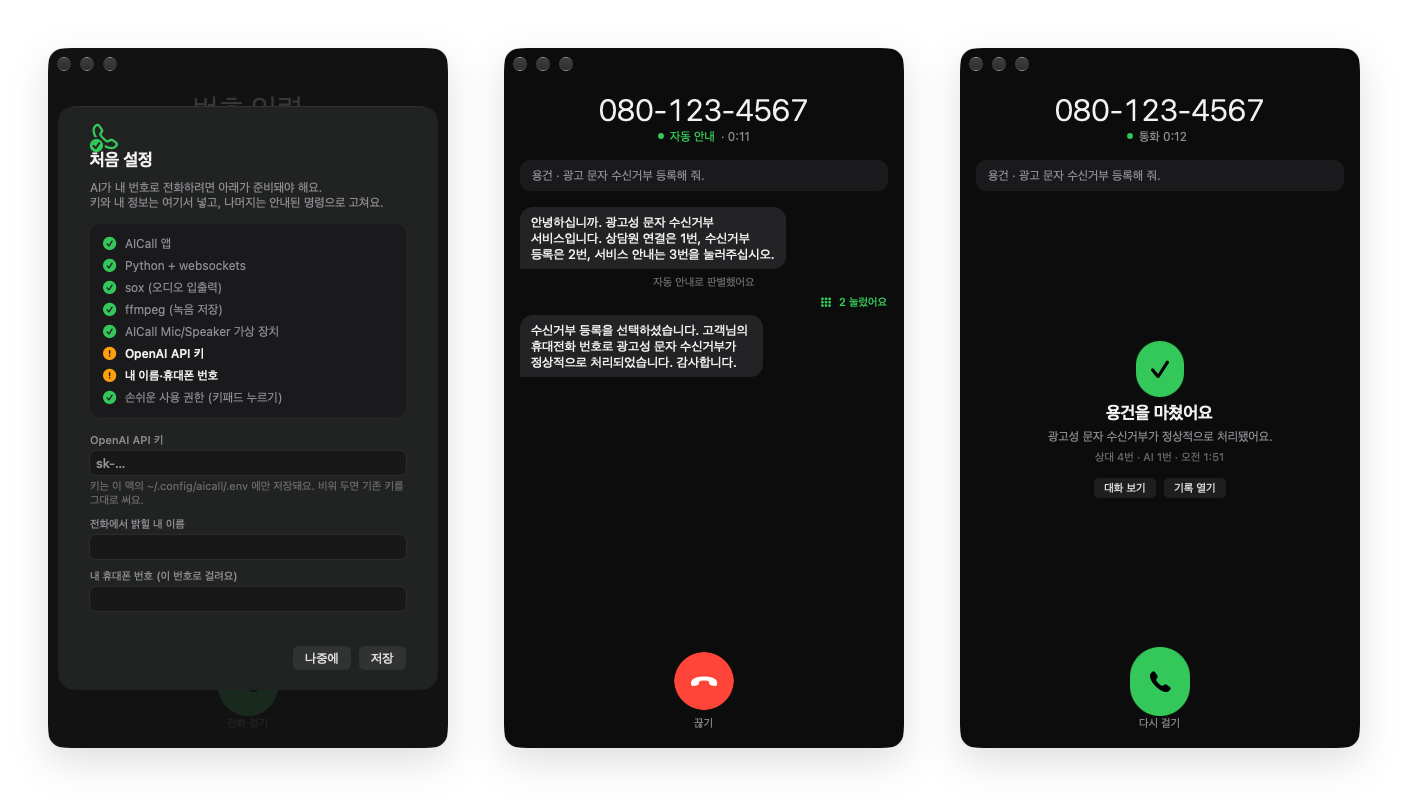
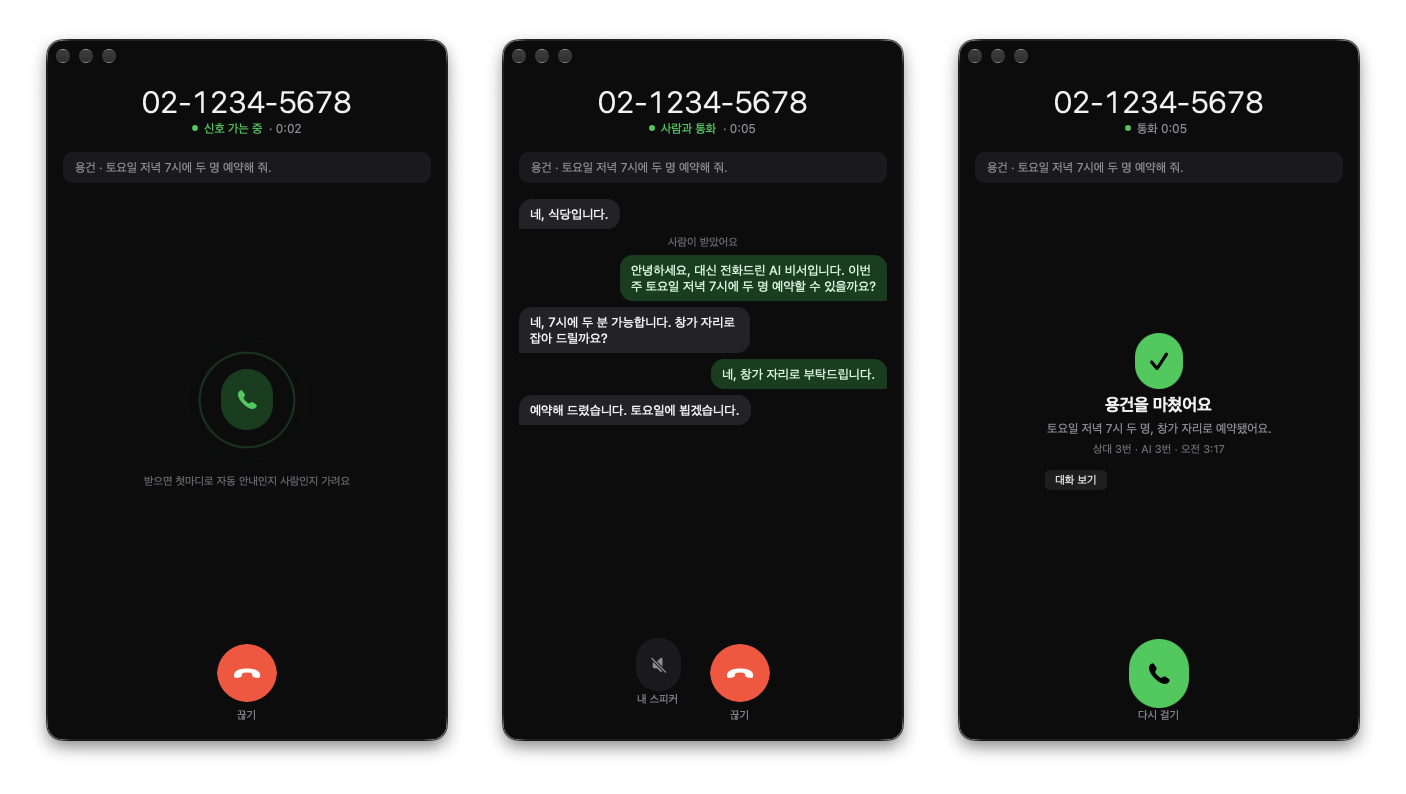
App: recent calls, Enter to call, done alert; new screenshots
- Idle screen lists recent calls; clicking one refills number and task.
- Enter in the number field moves to the task, Enter in the task
  places the call (Shift+Enter for a new line), Tab goes back.
- When a call ends while the app is in the background it bounces the
  Dock icon and plays a sound.
- Setup sheet: a button opens the permission pane directly.
- Screenshots now show a call with a person.

diff --git a/app/AICall.swift b/app/AICall.swift
@@ -95,6 +95,24 @@ enum Book {
 }
 
 // 디자인 토큰. 강조색은 통화 약속 색(걸기 초록·끊기 빨강)과 넘겨받기 주황뿐. 글꼴은 시스템 한 벌, 숫자만 고정폭 숫자
+// 최근 통화: 기록 파일(calls/*.md)의 번호·용건·결과. 같은 번호·용건은 한 번만, 화면 점검용 재생은 뺀다
+struct Past { let number: String; let task: String; let outcome: String }
+func recentCalls(_ n: Int) -> [Past] {
+    let dir = support.appendingPathComponent("calls")
+    let files = ((try? FileManager.default.contentsOfDirectory(atPath: dir.path)) ?? []).filter { $0.hasSuffix(".md") }.sorted(by: >)
+    var out: [Past] = []
+    for f in files.prefix(40) where out.count < n {
+        let num = String(f.dropLast(3).split(separator: "_").last ?? "")
+        guard num.count >= 3, let s = try? String(contentsOf: dir.appendingPathComponent(f), encoding: .utf8), !s.contains(" 재생: ") else { continue }
+        let parts = s.components(separatedBy: "\n\n")
+        guard parts.count > 1, parts[1].hasPrefix("용건: ") else { continue }
+        let task = String(parts[1].dropFirst(4))
+        let end = s.split(separator: "\n").last { $0.hasPrefix("결과: ") }.map { String($0.dropFirst(4).prefix { $0 != " " }) } ?? ""
+        if !out.contains(where: { $0.number == num && $0.task == task }) { out.append(Past(number: num, task: task, outcome: end)) }
+    }
+    return out
+}
+
 enum Pal {
     static func hex(_ v: UInt32) -> NSColor { NSColor(srgbRed: CGFloat(v >> 16 & 255) / 255, green: CGFloat(v >> 8 & 255) / 255, blue: CGFloat(v & 255) / 255, alpha: 1) }
     static let bg = hex(0x0C0C0D)        // 바탕 (통화 화면)
@@ -223,6 +241,8 @@ final class Controller: NSObject, NSApplicationDelegate, NSWindowDelegate, NSTex
     let opts = NSStackView()
     // 가운데: 단계마다 하나만 보인다
     let hint = label("", 12, Pal.faint, wrap: true)
+    let recent = NSStackView()                      // 대기 화면: 최근 통화를 누르면 번호·용건이 다시 채워진다
+    var past: [Past] = []
     let ring = Ring()
     let ringNote = label("받으면 첫마디로 자동 안내인지 사람인지 가려요", 11, Pal.faint)
     let banner = NSView()
@@ -385,10 +405,12 @@ final class Controller: NSObject, NSApplicationDelegate, NSWindowDelegate, NSTex
         // 가운데 칸: 대기 안내 / 고리 / 말풍선 / 결과 중 하나
         let middle = NSView()
         let ringBox = NSStackView(views: [ring, ringNote]); ringBox.orientation = .vertical; ringBox.spacing = 14
-        for x in [hint, ringBox, chatScroll, result] as [NSView] { x.translatesAutoresizingMaskIntoConstraints = false; middle.addSubview(x) }
+        recent.orientation = .vertical; recent.alignment = .leading; recent.spacing = 5
+        let idleBox = NSStackView(views: [recent, hint]); idleBox.orientation = .vertical; idleBox.spacing = 22
+        for x in [idleBox, ringBox, chatScroll, result] as [NSView] { x.translatesAutoresizingMaskIntoConstraints = false; middle.addSubview(x) }
         NSLayoutConstraint.activate([
-            hint.centerXAnchor.constraint(equalTo: middle.centerXAnchor), hint.centerYAnchor.constraint(equalTo: middle.centerYAnchor),
-            hint.widthAnchor.constraint(lessThanOrEqualTo: middle.widthAnchor, constant: -24),
+            idleBox.centerXAnchor.constraint(equalTo: middle.centerXAnchor), idleBox.centerYAnchor.constraint(equalTo: middle.centerYAnchor),
+            idleBox.widthAnchor.constraint(equalTo: middle.widthAnchor, constant: -24), recent.widthAnchor.constraint(equalTo: idleBox.widthAnchor),
             ringBox.centerXAnchor.constraint(equalTo: middle.centerXAnchor), ringBox.centerYAnchor.constraint(equalTo: middle.centerYAnchor),
             chatScroll.leadingAnchor.constraint(equalTo: middle.leadingAnchor), chatScroll.trailingAnchor.constraint(equalTo: middle.trailingAnchor),
             chatScroll.topAnchor.constraint(equalTo: middle.topAnchor), chatScroll.bottomAnchor.constraint(equalTo: middle.bottomAnchor),
@@ -474,6 +496,7 @@ final class Controller: NSObject, NSApplicationDelegate, NSWindowDelegate, NSTex
         handoff.isHidden = practice
         if p != .talking { banner.isHidden = true }
         hint.isHidden = p != .idle
+        if p == .idle && !practice { loadRecent() } else { recent.isHidden = true }
         ringBox.isHidden = p != .dialing
         if p == .dialing { ring.start() } else { ring.stop() }
         chatScroll.isHidden = !(p == .talking || (p == .done && showingChat))
@@ -506,7 +529,7 @@ final class Controller: NSObject, NSApplicationDelegate, NSWindowDelegate, NSTex
         let ready = (practice || named) && !task.string.trimmingCharacters(in: .whitespaces).isEmpty
         taskHint.isHidden = !task.string.isEmpty
         callKey.alphaValue = ready ? 1 : 0.35
-        hint.stringValue = ready ? "엔터를 누르면 \(practice ? "시작해요" : "걸어요")."
+        hint.stringValue = ready ? "엔터를 누르면 \(practice ? "시작해요" : "걸어요"). 줄바꿈은 Shift+엔터."
             : (practice ? "시작하면 먼저 말을 걸어 주세요. 내가 상대 역할이에요." : "자동 안내면 AI가 번호를 누르고, 사람이 받으면 비서라고 밝힌 뒤 대화해요.")
         if !practice {
             if nameMode { setStatus(!Book.allowed ? "연락처 권한이 없어요 — 설정 > 연락처" : hits.isEmpty ? "연락처에서 못 찾았어요" : "후보를 골라 주세요", Book.allowed ? nil : Pal.orange) }
@@ -528,6 +551,49 @@ final class Controller: NSObject, NSApplicationDelegate, NSWindowDelegate, NSTex
         }
         updateReady()
     }
+    // 엔터: 번호 칸에서는 용건으로 넘어가고(용건이 있으면 건다), 용건 칸에서는 건다. Shift+엔터는 줄바꿈
+    func control(_ c: NSControl, textView: NSTextView, doCommandBy s: Selector) -> Bool {
+        guard c === number, s == #selector(NSResponder.insertNewline(_:)) else { return false }
+        if nameMode {
+            guard let h = Book.choose(hits) else { updateReady(); light(Pal.orange); return true }
+            pick(h)
+        }
+        if task.string.trimmingCharacters(in: .whitespacesAndNewlines).isEmpty { win.makeFirstResponder(task) } else { toggleCall() }
+        return true
+    }
+    func textView(_ t: NSTextView, doCommandBy s: Selector) -> Bool {
+        if s == #selector(NSResponder.insertNewline(_:)) {
+            if NSApp.currentEvent?.modifierFlags.contains(.shift) == true { return false }
+            toggleCall(); return true
+        }
+        if s == #selector(NSResponder.insertTab(_:)) { win.makeFirstResponder(number); return true }
+        return false
+    }
+
+    func loadRecent() {
+        past = recentCalls(4)
+        var rows: [NSView] = past.isEmpty ? [] : [label("최근 통화", 11, Pal.faint, .medium)]
+        let dot: [String: NSColor] = ["success": Pal.green, "needs_user": Pal.orange, "failed": Pal.red]
+        for (i, p) in past.enumerated() {
+            let b = NSButton(title: "", target: self, action: #selector(pickPast(_:))); b.tag = i; b.isBordered = false; b.alignment = .left
+            let who = (Book.allowed ? Book.who(p.number)?.name : nil) ?? formatPhone(p.number)
+            let t = NSMutableAttributedString(string: "●  ", attributes: [.font: NSFont.systemFont(ofSize: 7), .foregroundColor: dot[p.outcome] ?? Pal.faint, .baselineOffset: 2])
+            t.append(NSAttributedString(string: who + "  ", attributes: [.font: NSFont.monospacedDigitSystemFont(ofSize: 12, weight: .medium), .foregroundColor: Pal.text]))
+            t.append(NSAttributedString(string: p.task.replacingOccurrences(of: "\n", with: " "), attributes: [.font: NSFont.systemFont(ofSize: 12), .foregroundColor: Pal.sub]))
+            b.attributedTitle = t; b.lineBreakMode = .byTruncatingTail
+            b.setContentCompressionResistancePriority(.defaultLow, for: .horizontal)
+            rows.append(b)
+        }
+        recent.setViews(rows, in: .top); recent.isHidden = past.isEmpty
+        for b in rows.dropFirst() { b.widthAnchor.constraint(equalTo: recent.widthAnchor).isActive = true }
+    }
+    @objc func pickPast(_ b: NSButton) {
+        let p = past[b.tag]
+        number.stringValue = formatPhone(p.number); showHits([])
+        callee = Book.allowed ? Book.who(p.number).map { "\($0.name) · \($0.label)" } : nil
+        task.string = p.task; updateReady(); win.makeFirstResponder(task)
+    }
+
     func showHits(_ h: [Book.Hit]) {
         hits = h
         suggest.setViews(h.prefix(4).enumerated().map { i, x in
@@ -730,6 +796,7 @@ final class Controller: NSObject, NSApplicationDelegate, NSWindowDelegate, NSTex
         openLogBtn.isHidden = logPath == nil
         status.stringValue = (clock.stringValue.isEmpty ? "" : "통화 " + clock.stringValue.replacingOccurrences(of: "· ", with: "")); status.textColor = Pal.sub
         clock.stringValue = ""; light(o == "ended" ? nil : col)
+        if !NSApp.isActive { NSApp.requestUserAttention(.informationalRequest); NSSound(named: "Glass")?.play() }   // 다른 일을 하는 동안 끝났다
         enter(.done)
     }
 
@@ -864,6 +931,10 @@ final class Setup: NSObject {
                 let b = NSButton(title: "허용", target: self, action: #selector(allowContacts)); b.bezelStyle = .inline; b.controlSize = .small
                 row.addArrangedSubview(b)
             }
+            if !ok, r["id"] as? String == "ax" {            // 권한은 명령으로 못 고친다: 설정의 그 화면을 바로 연다
+                let b = NSButton(title: "설정 열기", target: self, action: #selector(openAX)); b.bezelStyle = .inline; b.controlSize = .small
+                row.addArrangedSubview(b)
+            }
             checks.addArrangedSubview(row)
             if !ok, r["optional"] == nil, let fix = r["fix"] as? String, !["key", "owner"].contains(r["id"] as? String ?? "") {
                 let f = label(fix, 11, Pal.sub, wrap: true); f.isSelectable = true
@@ -891,6 +962,7 @@ final class Setup: NSObject {
         if !missing() { close() }
     }
     @objc func close() { parent?.endSheet(panel) }
+    @objc func openAX() { NSWorkspace.shared.open(URL(string: "x-apple.systempreferences:com.apple.preference.security?Privacy_Accessibility")!) }
     @objc func openGuide() { NSWorkspace.shared.open(URL(string: "https://github.com/gyujeongion/aicall/blob/main/docs/setup-ko.md")!) }
     // 연락처: 처음이면 권한 창, 이미 거절했으면 시스템 설정을 연다
     @objc func allowContacts() {

diff --git a/README.en.md b/README.en.md
@@ -4,7 +4,7 @@
 
 Type a number and what you want done. AICall dials through the built-in macOS Phone app, presses the right keys when a phone menu answers, and holds the conversation when a person picks up.
 
-![Setup, a call in progress, and the result](docs/screens.png)
+![Dialing, talking to a person, and the result](docs/screens.png)
 
 ## Install
 
